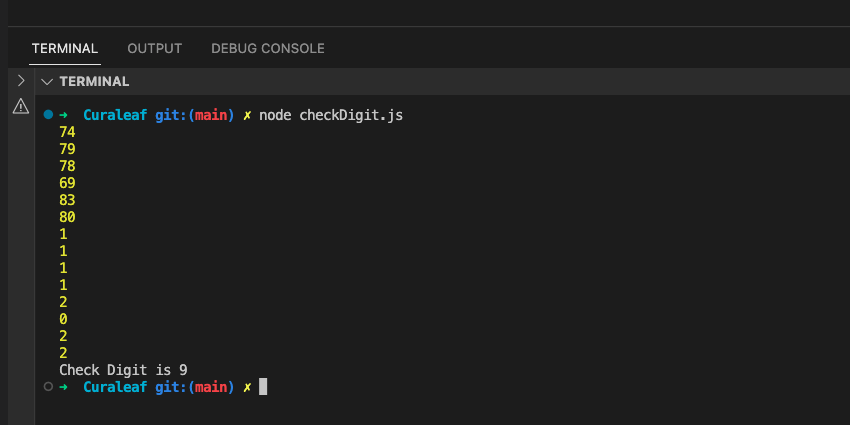
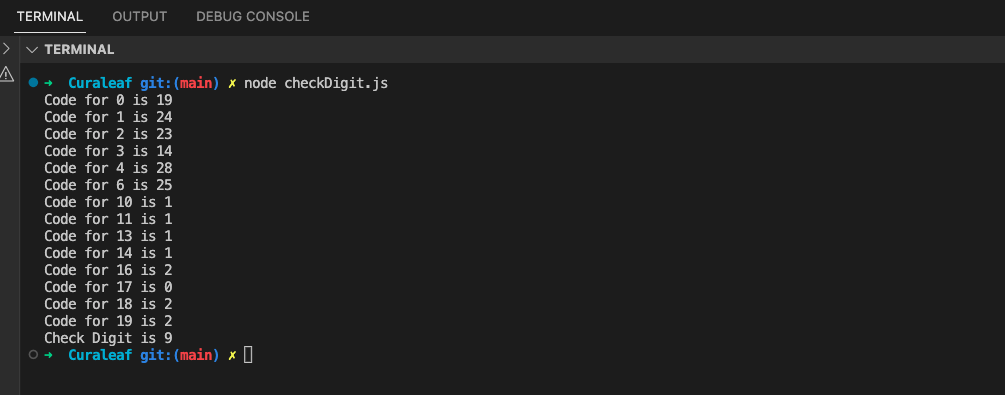
add image to readme

diff --git a/checkDigit.js b/checkDigit.js
@@ -16,10 +16,12 @@ class CheckDigit {
       }
 
       if (this.str[i].match(/[A-Z]/)) {
-        console.log(this.str.charCodeAt(i));
+        console.log(`Code for ${i} is ` + (this.str.charCodeAt(i) - 55));
+
         this.sum += (this.str.charCodeAt(i) - 55) * weight;
       } else if (this.str[i].match(/[0-9]/)) {
-        console.log(parseInt(this.str[i]));
+        console.log(`Code for ${i} is ` + parseInt(this.str[i]));
+
         this.sum += parseInt(this.str[i]) * weight;
       } else {
         this.sum += 0;

diff --git a/README.md b/README.md
@@ -1,28 +1,28 @@
 #### Problem
 
-users need to verify who they are - their age.
-send pictures with machine readable code - "JONES<P<<<11<11<2022"
+The company needs to verify the age of customer.
+Customers send pictures with machine readable code - "JONES<P<<<11<11<2022"
 
-function MRC as a string and returns the check digit as a number.
+Write a function MRC that take a string and returns the check digit.
 
-stage 1:
+**stage 1:**
 
 - convert every character in the string to numeric value.
-- 0-9 mapped to 0-9
-- A-Z 10-36
-  < > 0
+- 0-9 mapped to 0-9 - A-Z 10-36
+- < > 0
 
-stage2:
+**stage2:**
 Sum of the characters times the weighting factors
 weight - J x 7
 weight - 0 x 3
 weight - E x 1
 
-stage 3:
-divide the sum by 10 and remainder is the check digit.
-
+**stage 3:**
+Divide the sum by 10 and remainder is the check digit.
 --
 input: string
 output - number
 
-example string: "JONES<P<<<11<11<2022"
+Example String: "JONES<P<<<11<11<2022"
+
+![Console log statements](checkdigit.png)
